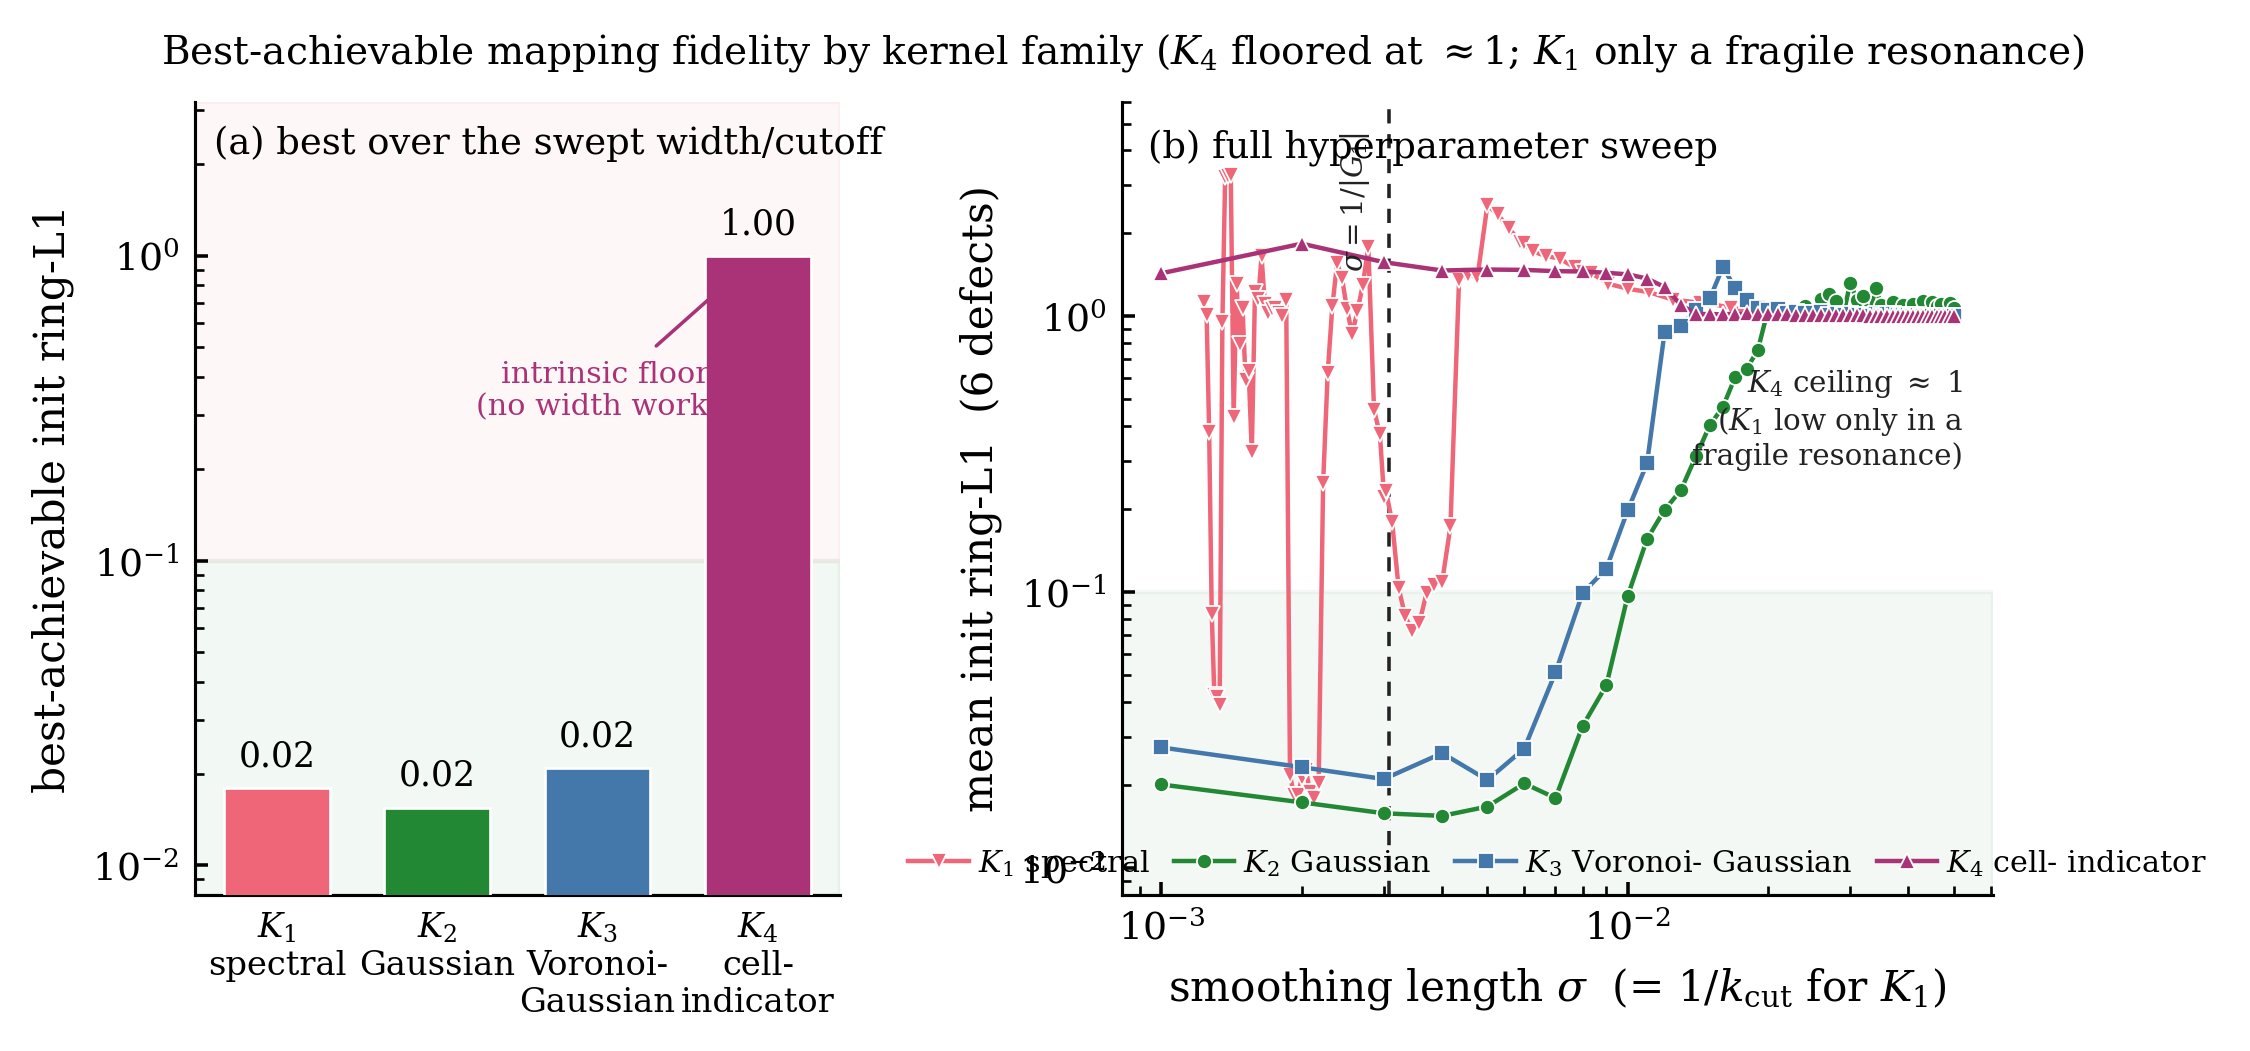
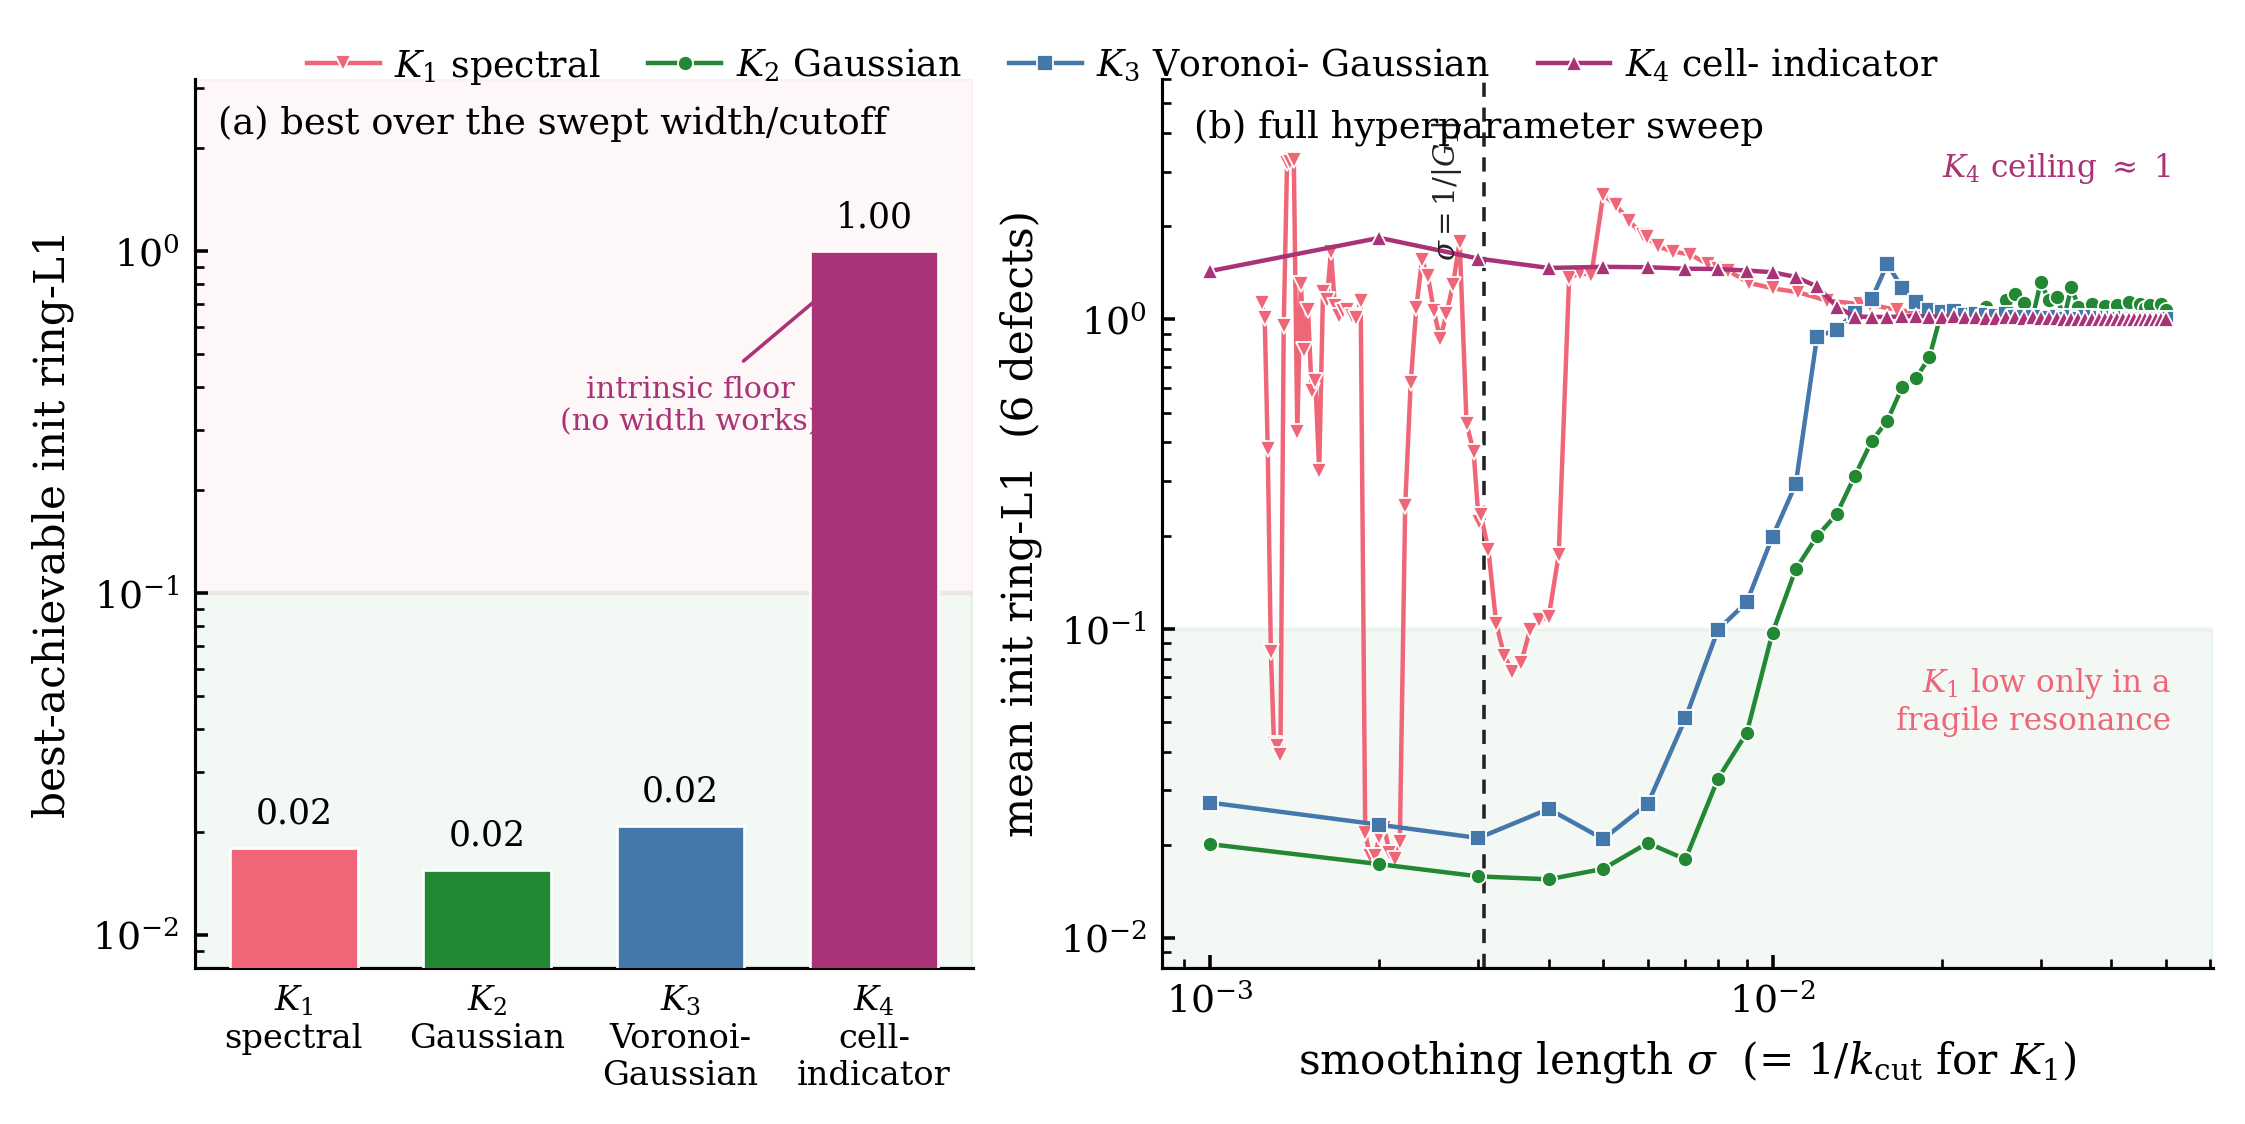
Address advisor review: scope 5-7 claim, decompose F10 legend, fix detector/grouping notes
- F10: shared family legend moved off the axis; right panel decluttered.
- F_basin: label 'correct atomistic topology' (only Stone-Wales is a clean 5-7-7-5).
(Text/SI fixes — scope of the 5-7 claim, naive-vs-fair K1 grouping in the OAT scan, the triangular
resolution table, softened 'fails whenever', |G1|=4pi/(sqrt3 a0) parentheses — live in the
gitignored manuscript.)

diff --git a/scripts/make_hyperparam_figure.py b/scripts/make_hyperparam_figure.py
@@ -66,7 +66,7 @@ def main():
     k1_opt = summ["k1_resonance"]
     k4_floor = best["K4"]
 
-    fig, (axA, axB) = plt.subplots(1, 2, figsize=(COLF, 2.95),
+    fig, (axA, axB) = plt.subplots(1, 2, figsize=(COLF, 3.25),
                                    gridspec_kw=dict(width_ratios=[1.0, 1.35]))
 
     # ---- (a) best-achievable ring-L1 per family (bars, log-y) ----
@@ -112,15 +112,15 @@ def main():
     axB.axhspan(FLOOR * 0.8, 0.1, color=C["green"], alpha=0.05, zorder=0)
     axB.text(0.03, 0.965, "(b) full hyperparameter sweep",
              transform=axB.transAxes, fontsize=8.3, va="top")
-    axB.text(0.965, 0.60, "$K_4$ ceiling $\\approx$ 1\n($K_1$ low only in a\nfragile resonance)",
-             transform=axB.transAxes, fontsize=6.6, ha="right", va="center",
-             color=C["dark"])
-    axB.legend(loc="lower center", ncol=4, columnspacing=0.8, handletextpad=0.3,
-               fontsize=6.8, bbox_to_anchor=(0.5, -0.015))
+    axB.text(0.96, 0.90, "$K_4$ ceiling $\\approx$ 1", transform=axB.transAxes,
+             fontsize=7.0, ha="right", va="center", color=C["purple"])
+    axB.text(0.96, 0.30, "$K_1$ low only in a\nfragile resonance", transform=axB.transAxes,
+             fontsize=7.0, ha="right", va="center", color=C["red"])
 
-    fig.suptitle("Best-achievable mapping fidelity by kernel family "
-                 "($K_4$ floored at $\\approx$1; $K_1$ only a fragile resonance)",
-                 fontsize=8.8, y=1.06)
+    # shared family legend at the top (frees panel (b) of its crowded bottom legend)
+    h, l = axB.get_legend_handles_labels()
+    fig.legend(h, l, loc="upper center", ncol=4, columnspacing=1.3, handletextpad=0.4,
+               fontsize=8.2, frameon=False, bbox_to_anchor=(0.5, 1.05))
     fig.savefig(os.path.join(OUT, "F10_hyperparam.png"))
     plt.close(fig)
     print("wrote", os.path.join(OUT, "F10_hyperparam.png"))

diff --git a/scripts/make_basin_figure.py b/scripts/make_basin_figure.py
@@ -63,7 +63,7 @@ def main():
     ax.set_xticklabels([CASE_LAB[c] for c in CASE_ORDER])
     ax.set_ylim(-0.08, 2.85)
     ax.set_ylabel("relaxed ring-L1  (lower = correct)")
-    ax.text(0.015, 0.085, "correct 5--7 basin", transform=ax.transAxes, fontsize=7.5,
+    ax.text(0.015, 0.085, "correct atomistic topology", transform=ax.transAxes, fontsize=7.5,
             color=C["green"], va="center")
     ax.text(0.015, 0.62, "distinct, unrepaired basin", transform=ax.transAxes, fontsize=7.5,
             color=C["red"], va="center")
